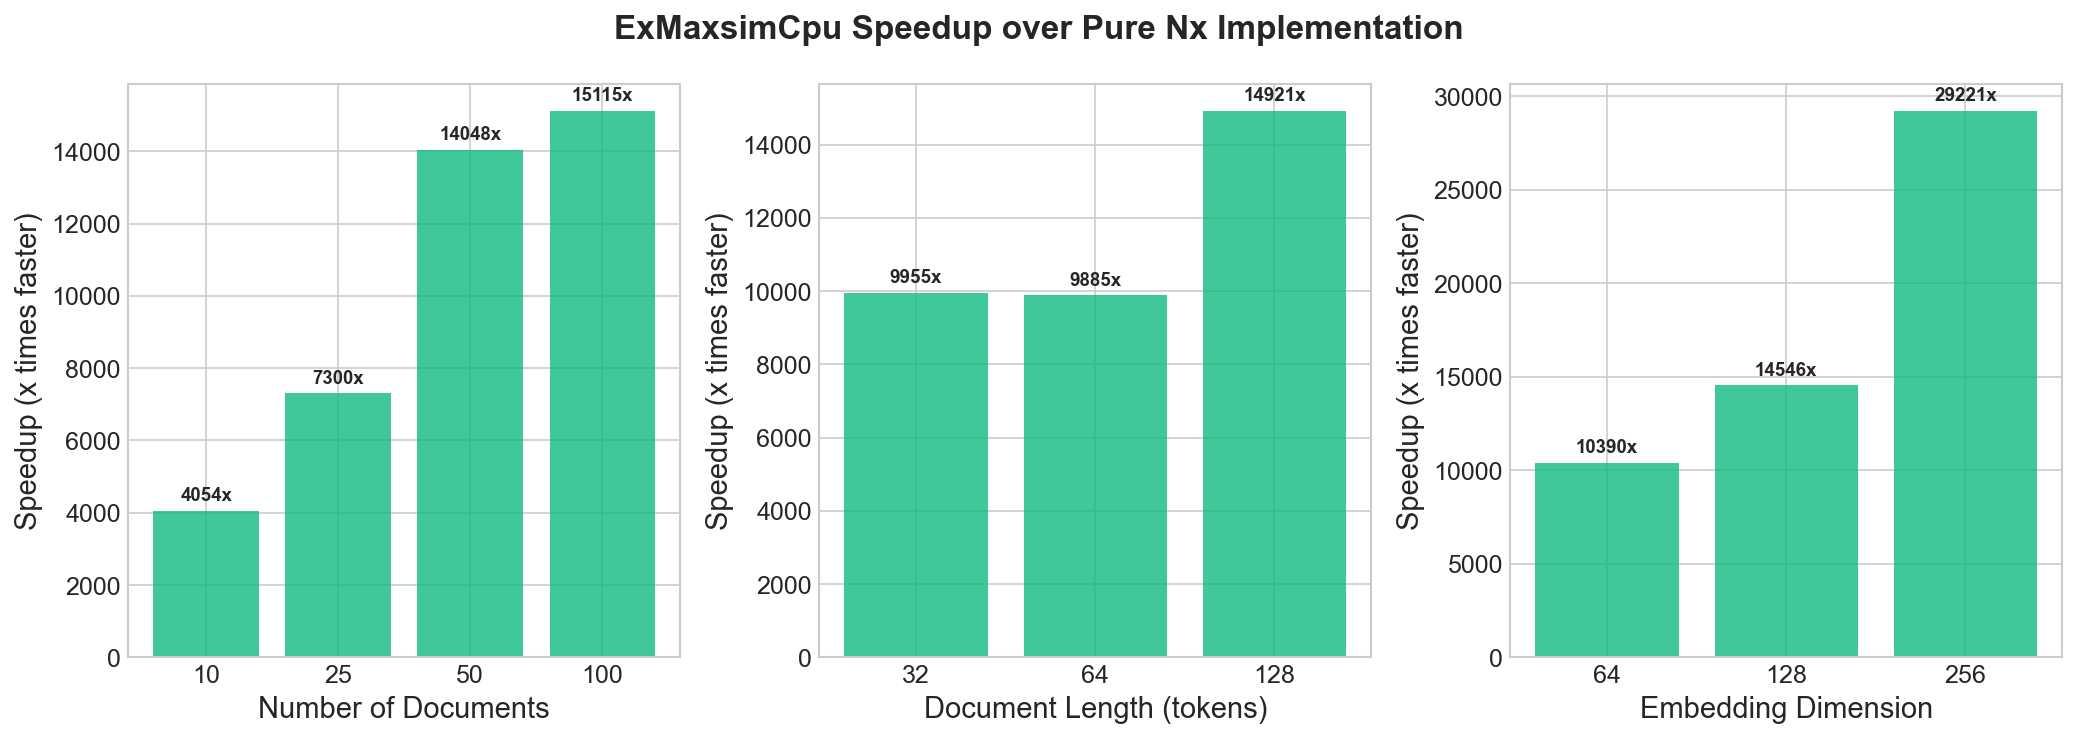
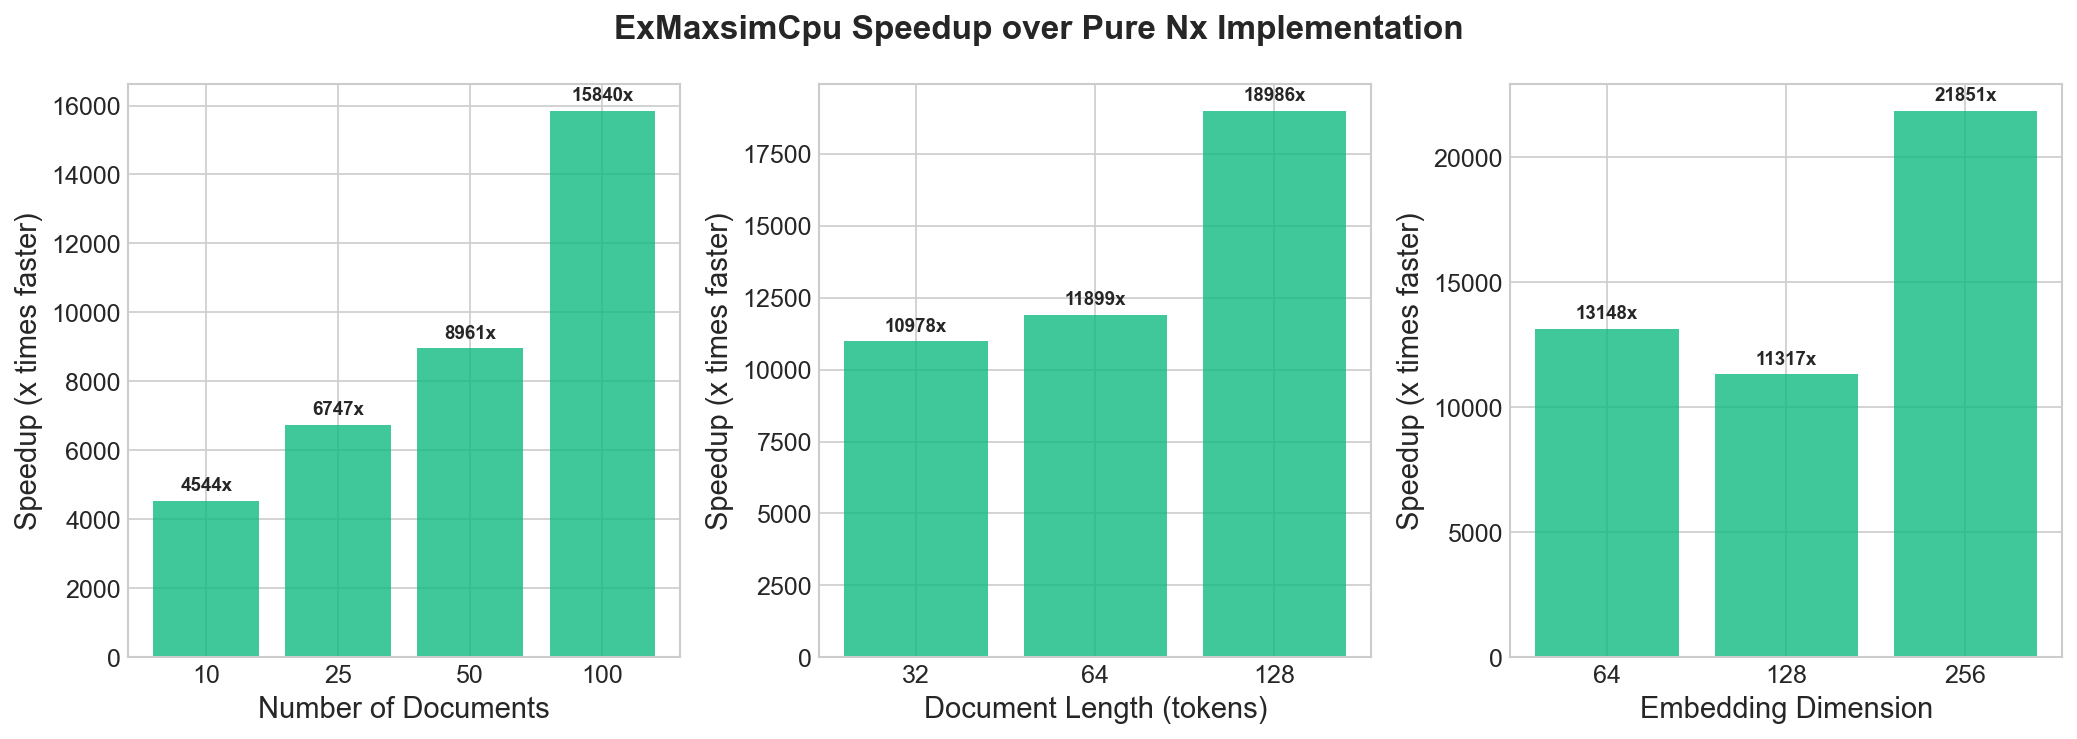
fix: Use optimized vectorized Nx implementation for fair comparison
The previous Nx reference used sequential Enum.map which was unfair.
New implementation uses:
- Batched Nx.dot with batch_axes for all docs at once
- Vectorized reduce_max and sum operations
- No Elixir-level loops

Speedups remain similar (4,500x-22,000x) because the main difference
is BLAS+SIMD vs Nx BinaryBackend, not the algorithm structure.

Updated README to clarify comparison is against optimized Nx code.

diff --git a/README.md b/README.md
@@ -138,7 +138,9 @@ For additional performance on Intel CPUs, you can enable libxsmm:
 
 ## Benchmarks
 
-ExMaxsimCpu is **10,000-20,000x faster** than a pure Nx implementation thanks to optimized BLAS and SIMD operations.
+ExMaxsimCpu is **4,500-22,000x faster** than a pure Nx implementation (using the default BinaryBackend) thanks to optimized BLAS and SIMD operations.
+
+> **Note:** The Nx reference uses an optimized vectorized implementation with batched `dot` operations - not a naive sequential loop. The speedup comes from ExMaxsimCpu's use of native BLAS libraries (Accelerate/OpenBLAS) and SIMD instructions.
 
 ### Performance Summary
 
